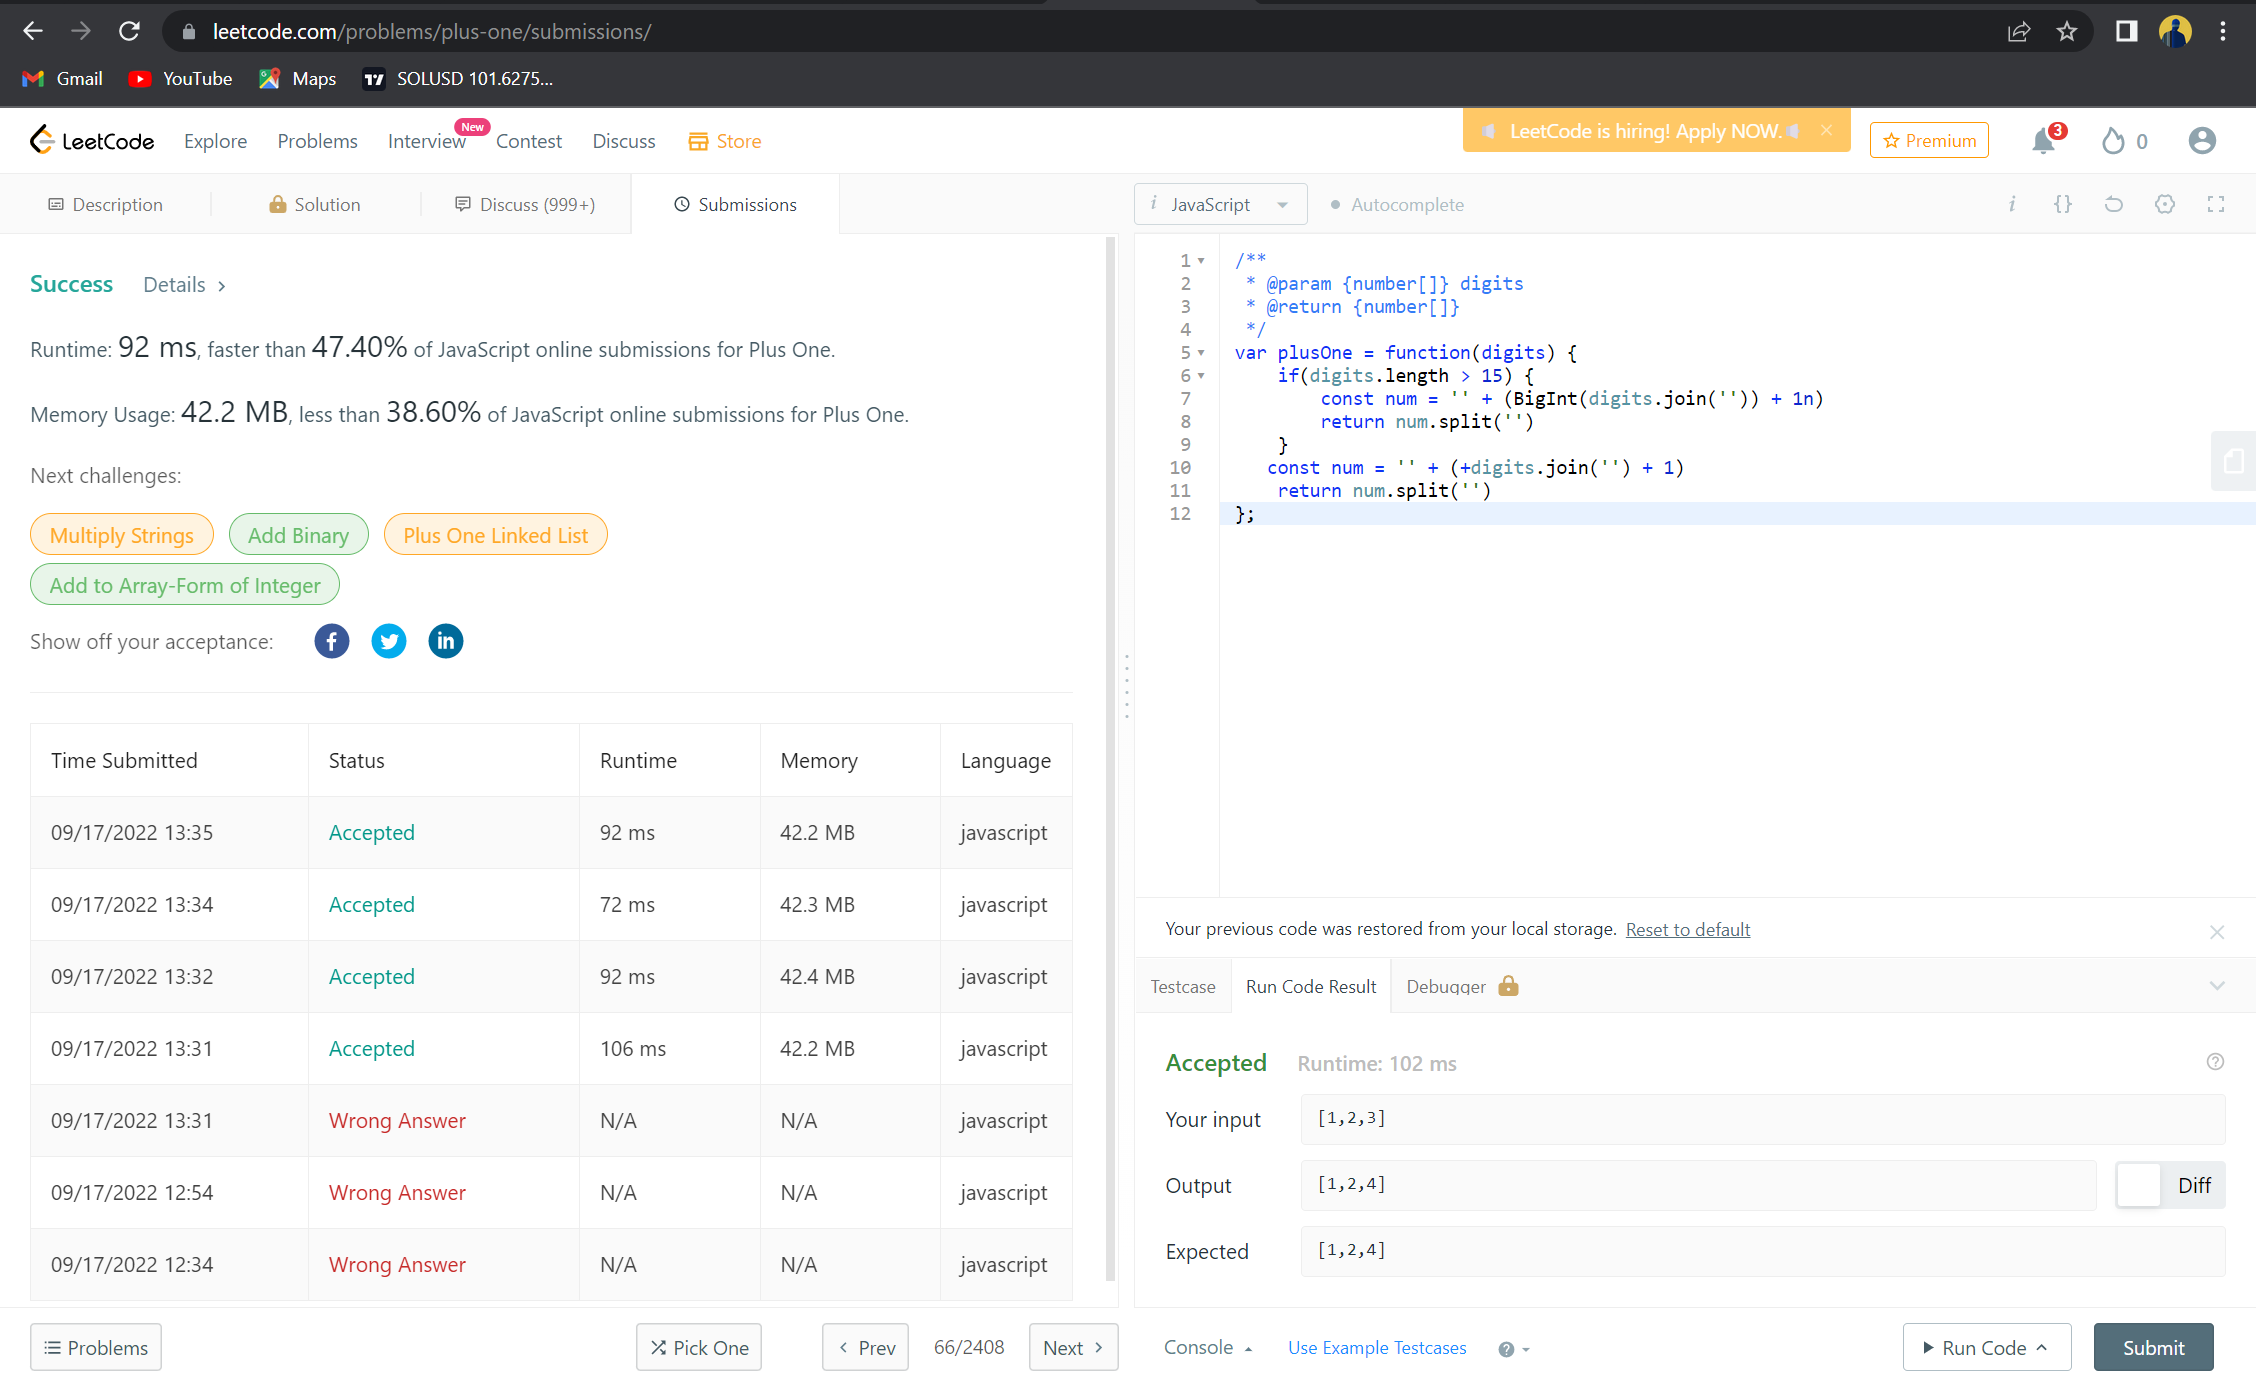
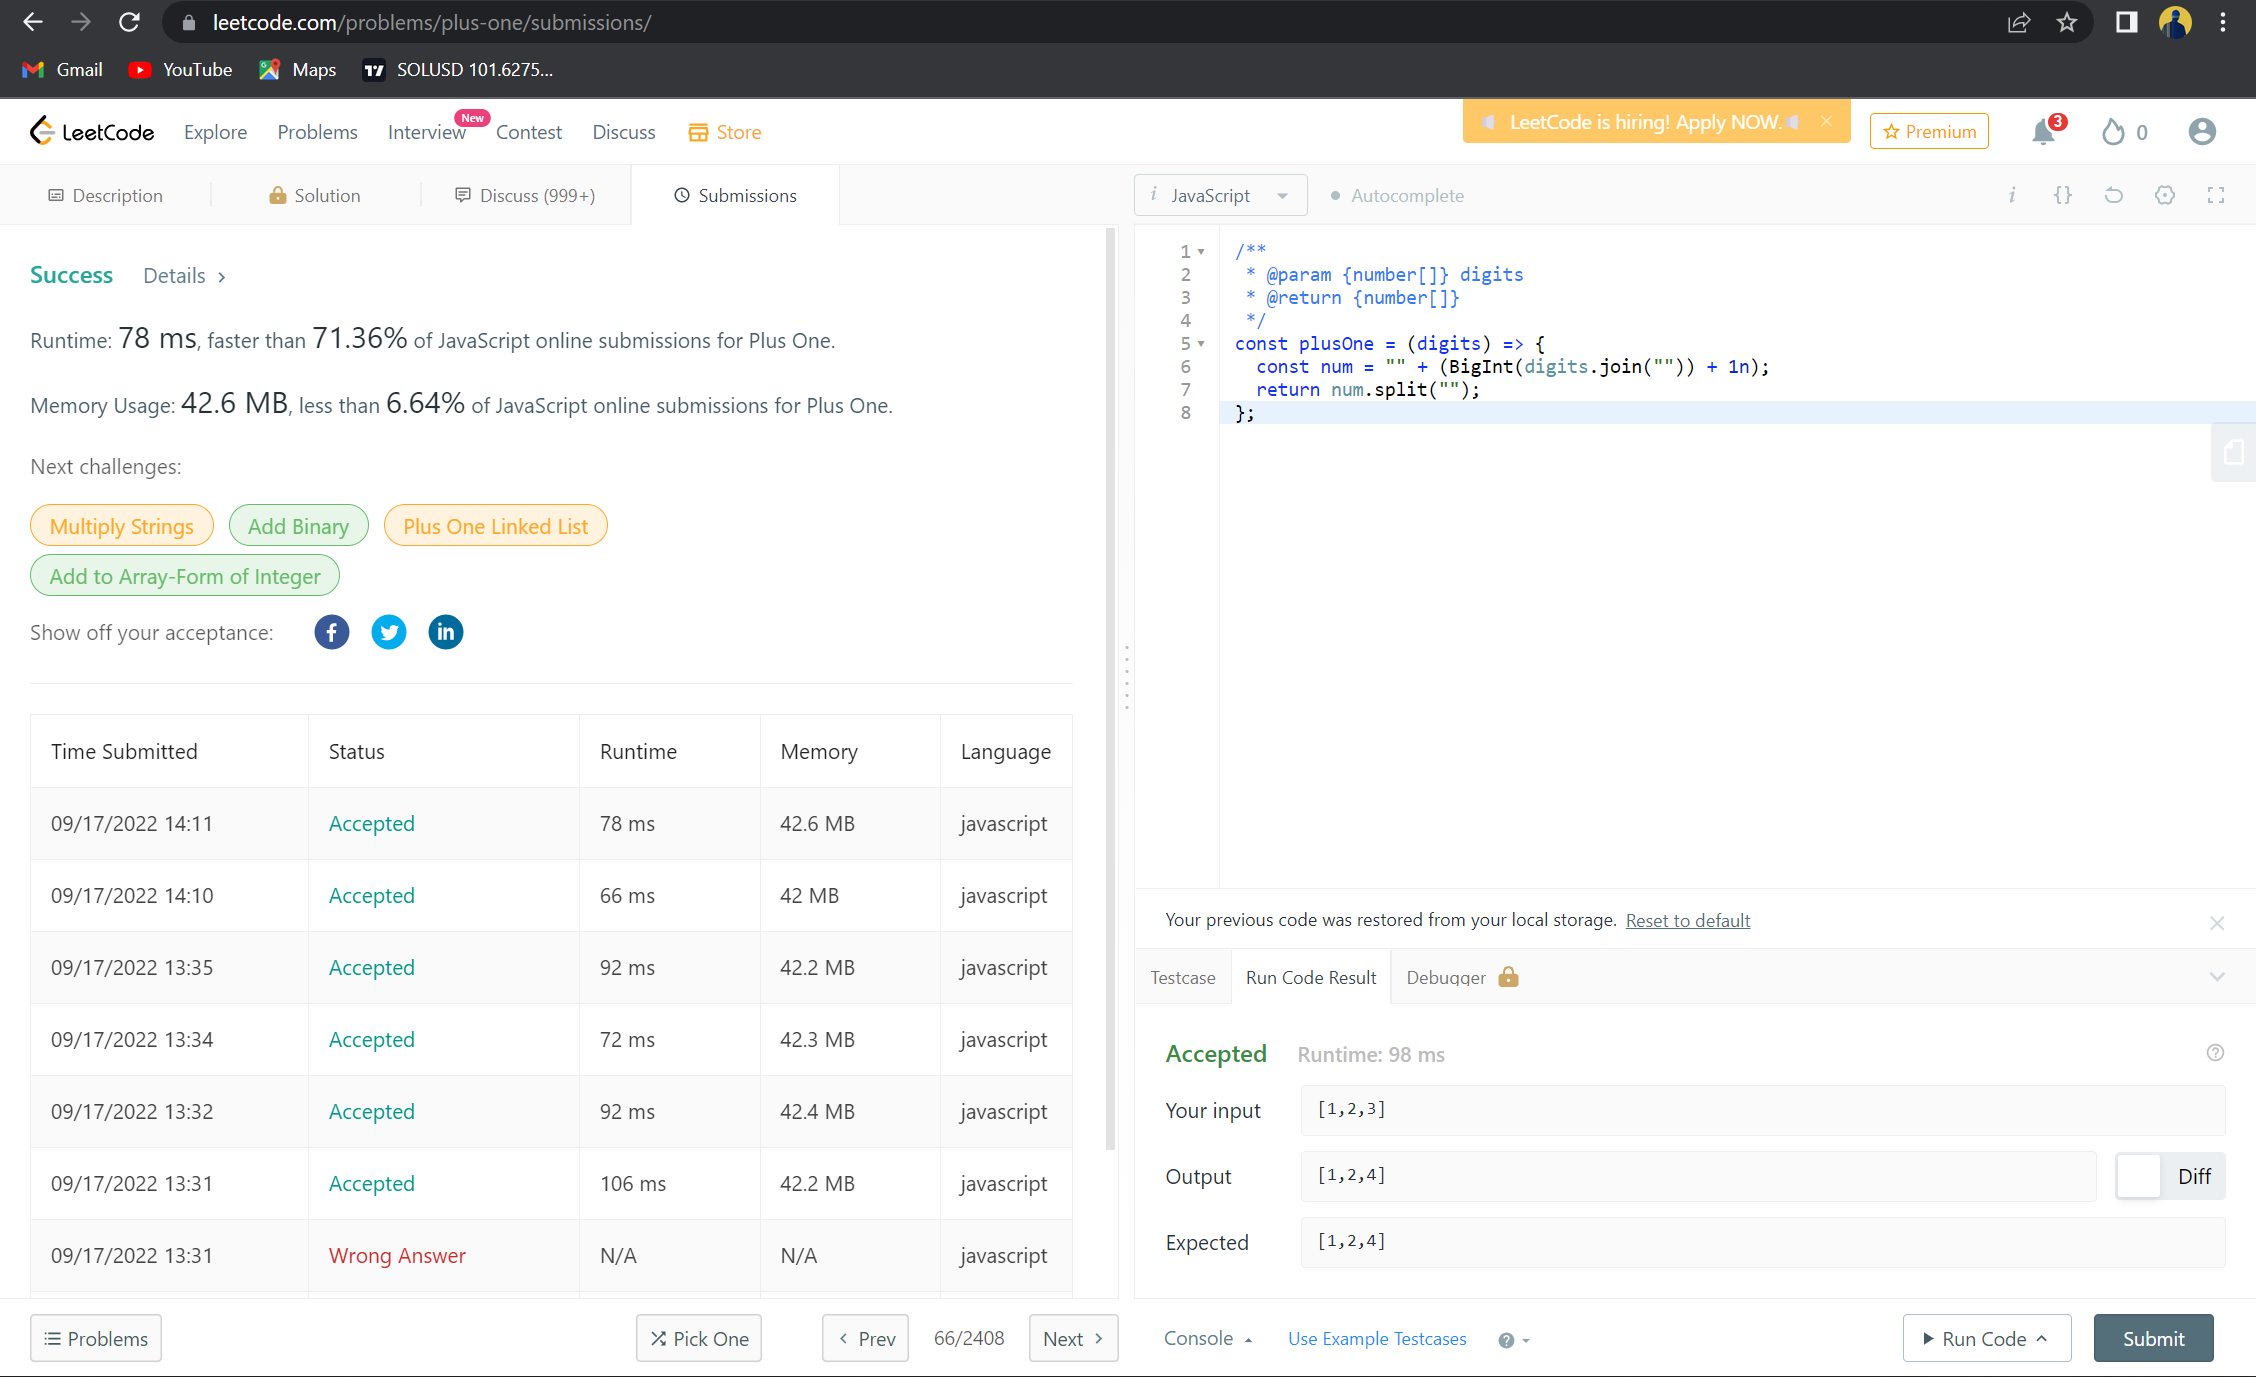
Refractore Day 5 challenge, added new snapshot

diff --git a/Zeuhz/Day 5 -Plus One/plusOne.js b/Zeuhz/Day 5 -Plus One/plusOne.js
@@ -1,8 +1,4 @@
 const plusOne = (digits) => {
-  if (digits.length > 15) {
-    const num = "" + (BigInt(digits.join("")) + 1n);
-    return num.split("");
-  }
-  const num = "" + (+digits.join("") + 1);
+  const num = "" + (BigInt(digits.join("")) + 1n);
   return num.split("");
 };
